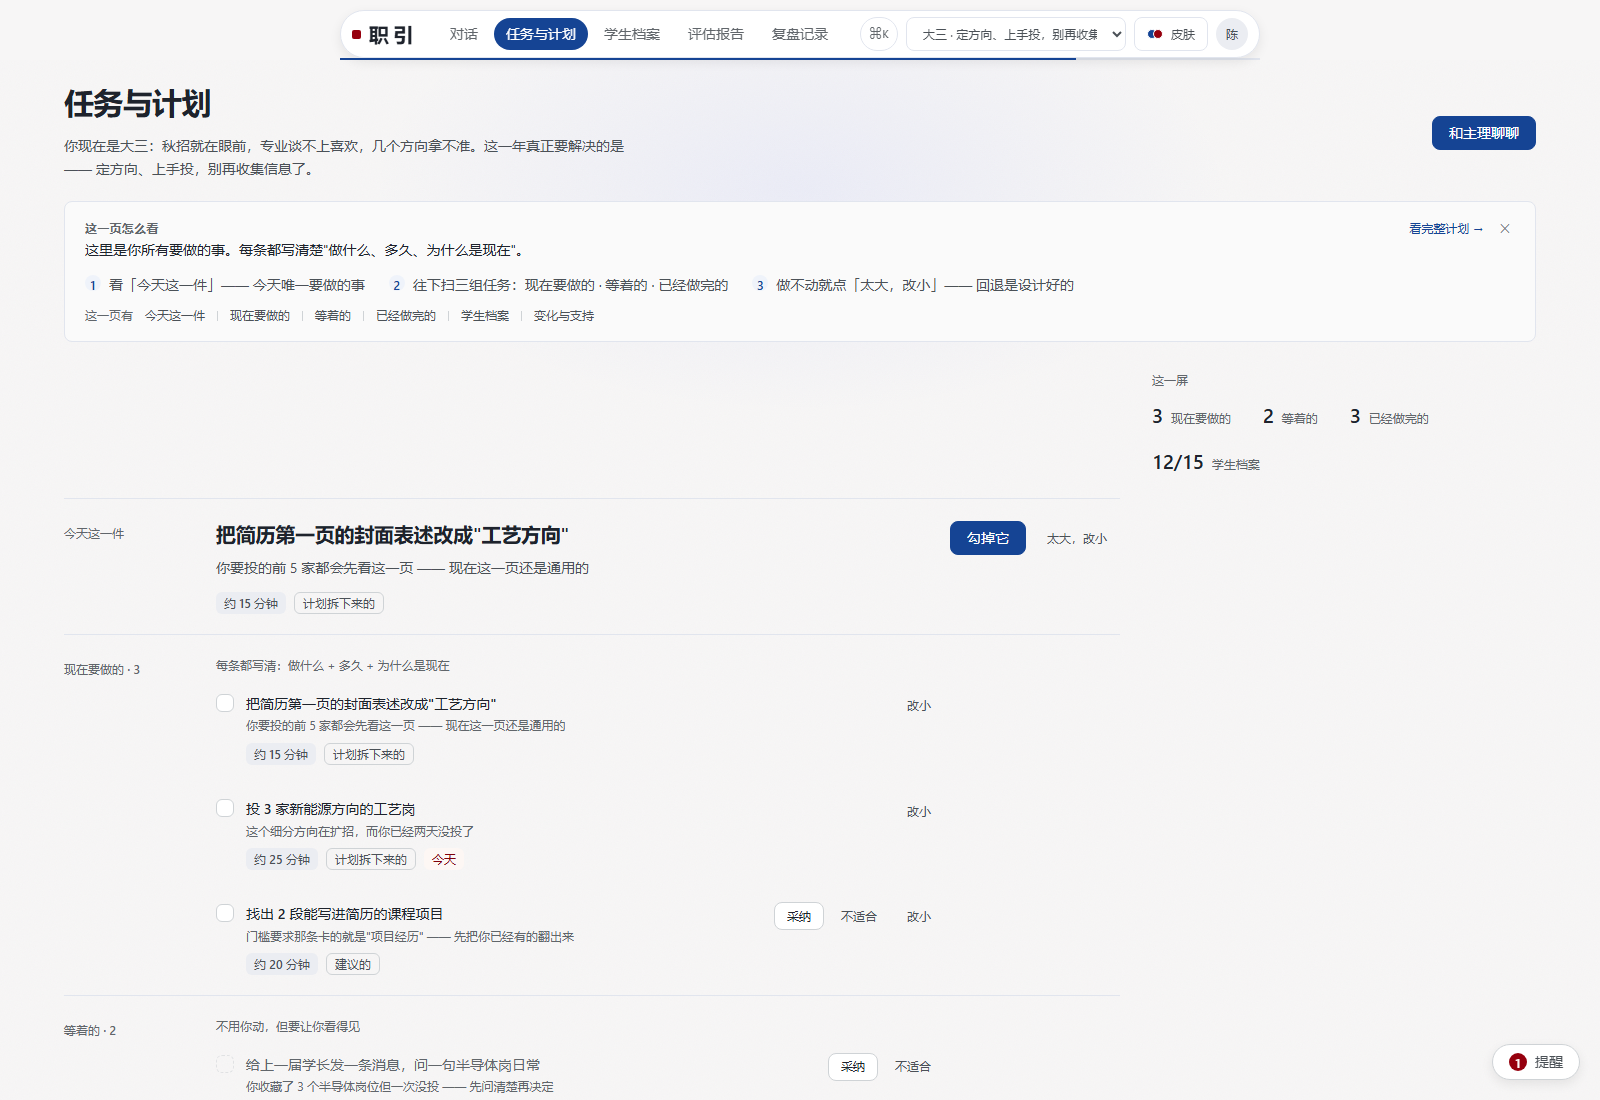
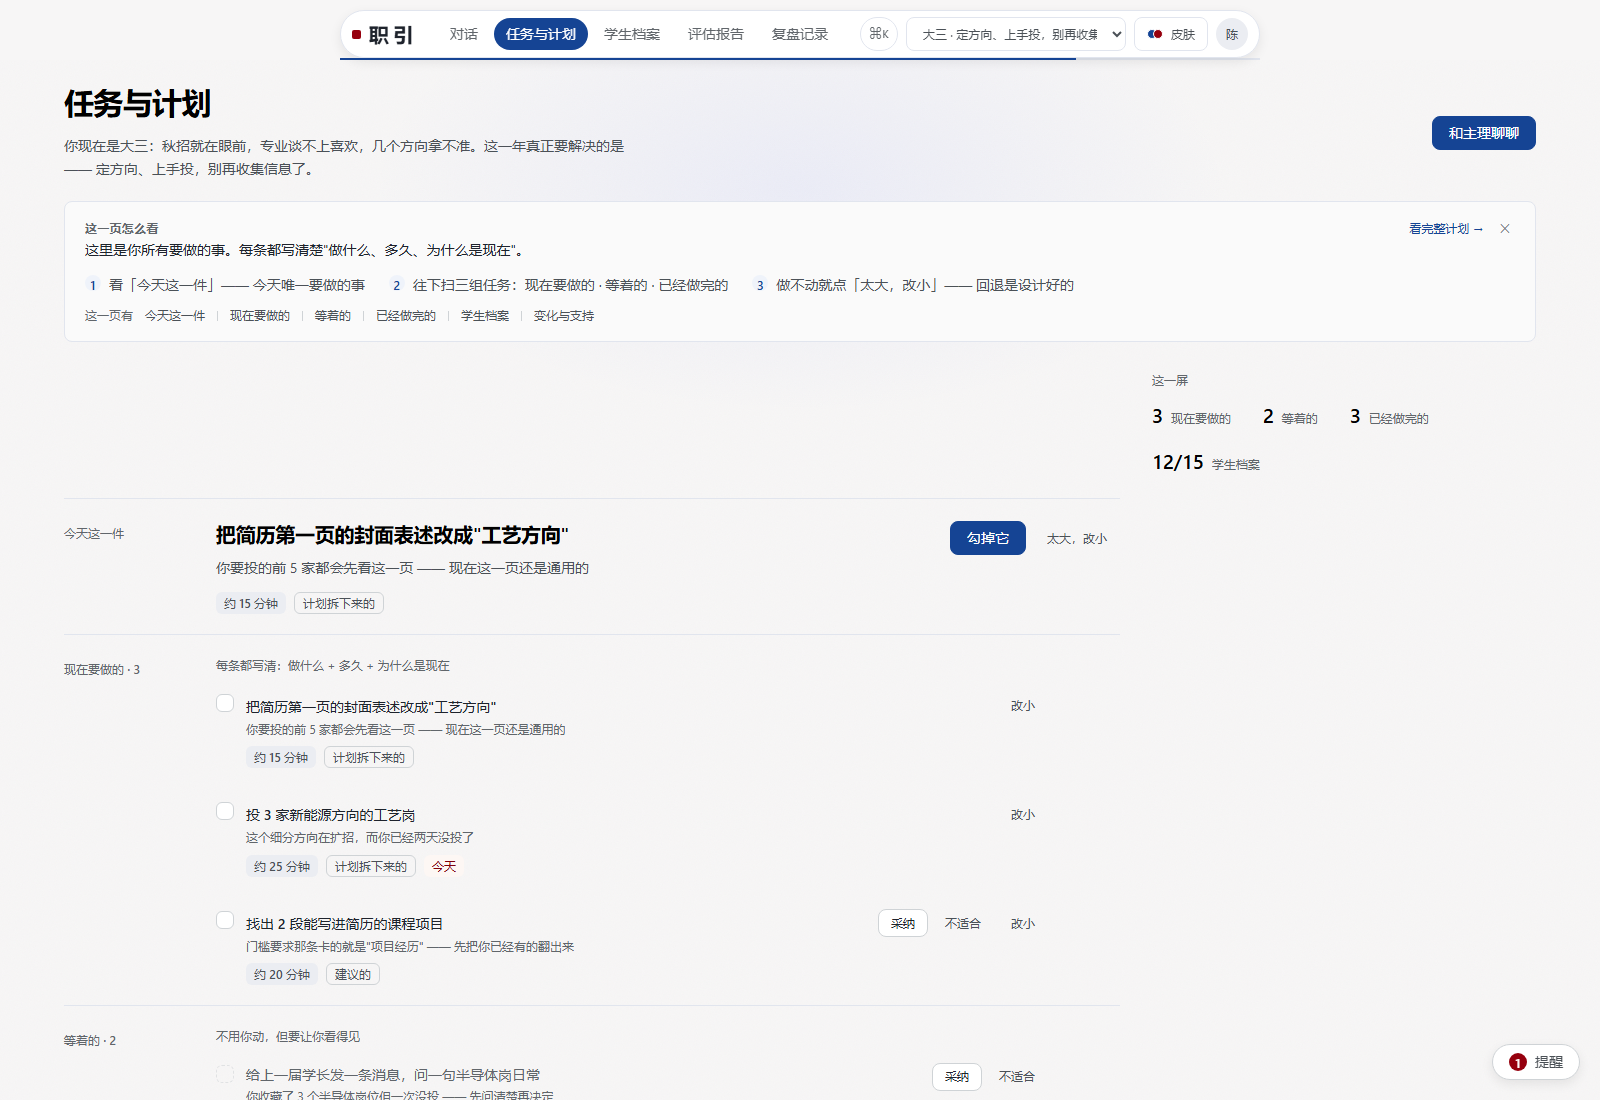
新前端：首页右栏收进变化与支持，分区变成左边做事 / 右边看状态

diff --git a/redesign-demo/src/styles/base.css b/redesign-demo/src/styles/base.css
@@ -1717,3 +1717,11 @@ html.is-skin-switching *::after {
     grid-template-columns: minmax(0, 1fr);
   }
 }
+
+/* 右栏里的"变化与支持"：它原本是并排两栏的内容，384px 放不下，改成上下叠。
+   于是右栏是一列连贯的"状态与支持"，不会半截空着。 */
+.ledger--rail > .ledger__row--rail .ledger__body--pair,
+.ledger--rail > .ledger__row--rail .ledger__body--cols2,
+.ledger--rail > .ledger__row--rail .ledger__body--cols3 {
+  grid-template-columns: minmax(0, 1fr);
+}

diff --git a/redesign-demo/src/views/HomeView.vue b/redesign-demo/src/views/HomeView.vue
@@ -225,7 +225,7 @@ function badgeClass(t: TaskItem) {
       </section>
 
       <!-- 最后一行：两件"说明"并排。它们本来就不必各占一整行。 -->
-      <section class="ledger__row ledger__row--wide">
+      <section class="ledger__row ledger__row--rail">
         <p class="ledger__label">变化与支持</p>
         <div class="ledger__body ledger__body--pair">
           <div>
